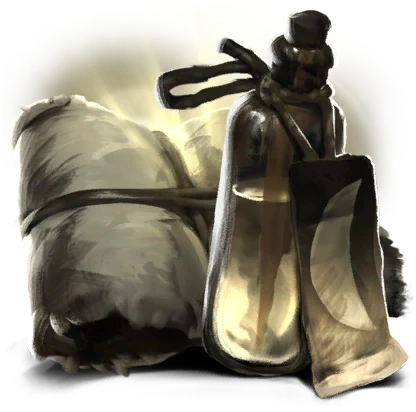
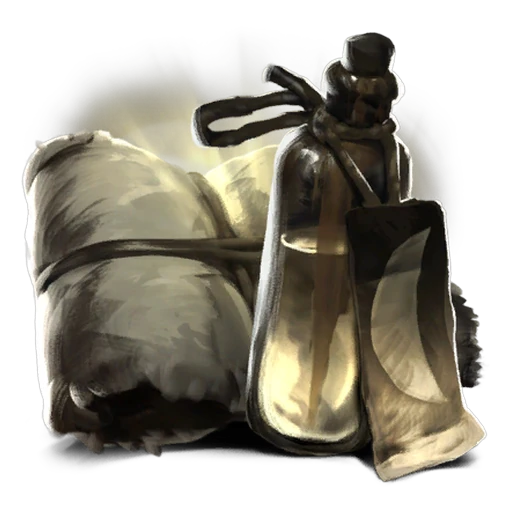
Uniform size for quick item hover art

diff --git a/tt.css b/tt.css
@@ -273,8 +273,8 @@
 
 .m-card .rn-meta:empty{display:none}
 .tt.tt-rune.tt-rune-hi:after{background:var(--ra) center/contain no-repeat;width:300px;height:330px;margin-top:-180px}
-/* quick items: same placement as the rune art (as tall as the card, centred, a little bleeding off the right edge, ending where the Sell Value strip starts), a little stronger since the item art is paler */
-.tt.tt-rune.tt-rune-hi.tt-qhi:after{top:0;bottom:0;right:0;margin:0;width:auto;height:auto;aspect-ratio:1/1;transform:translateX(12%);opacity:.42;clip-path:inset(0 0 40px 0)}
+/* quick items: same size and placement as the rune art (300 wide, a little off the right edge), ending where the Sell Value strip starts; every image is the same square canvas so all sizes match */
+.tt.tt-rune.tt-rune-hi.tt-qhi:after{right:-36px;opacity:.42;clip-path:inset(0 0 40px 0)}
 .tt-rn .rn-dia{display:grid;place-items:center}
 .tt-rn .rn-dia .wd-row{display:grid;place-items:center;width:100%;height:100%;line-height:0;margin:0;padding:0}
 .tt-rn .rn-dia .wd-ic{vertical-align:middle;margin:0;display:block}
